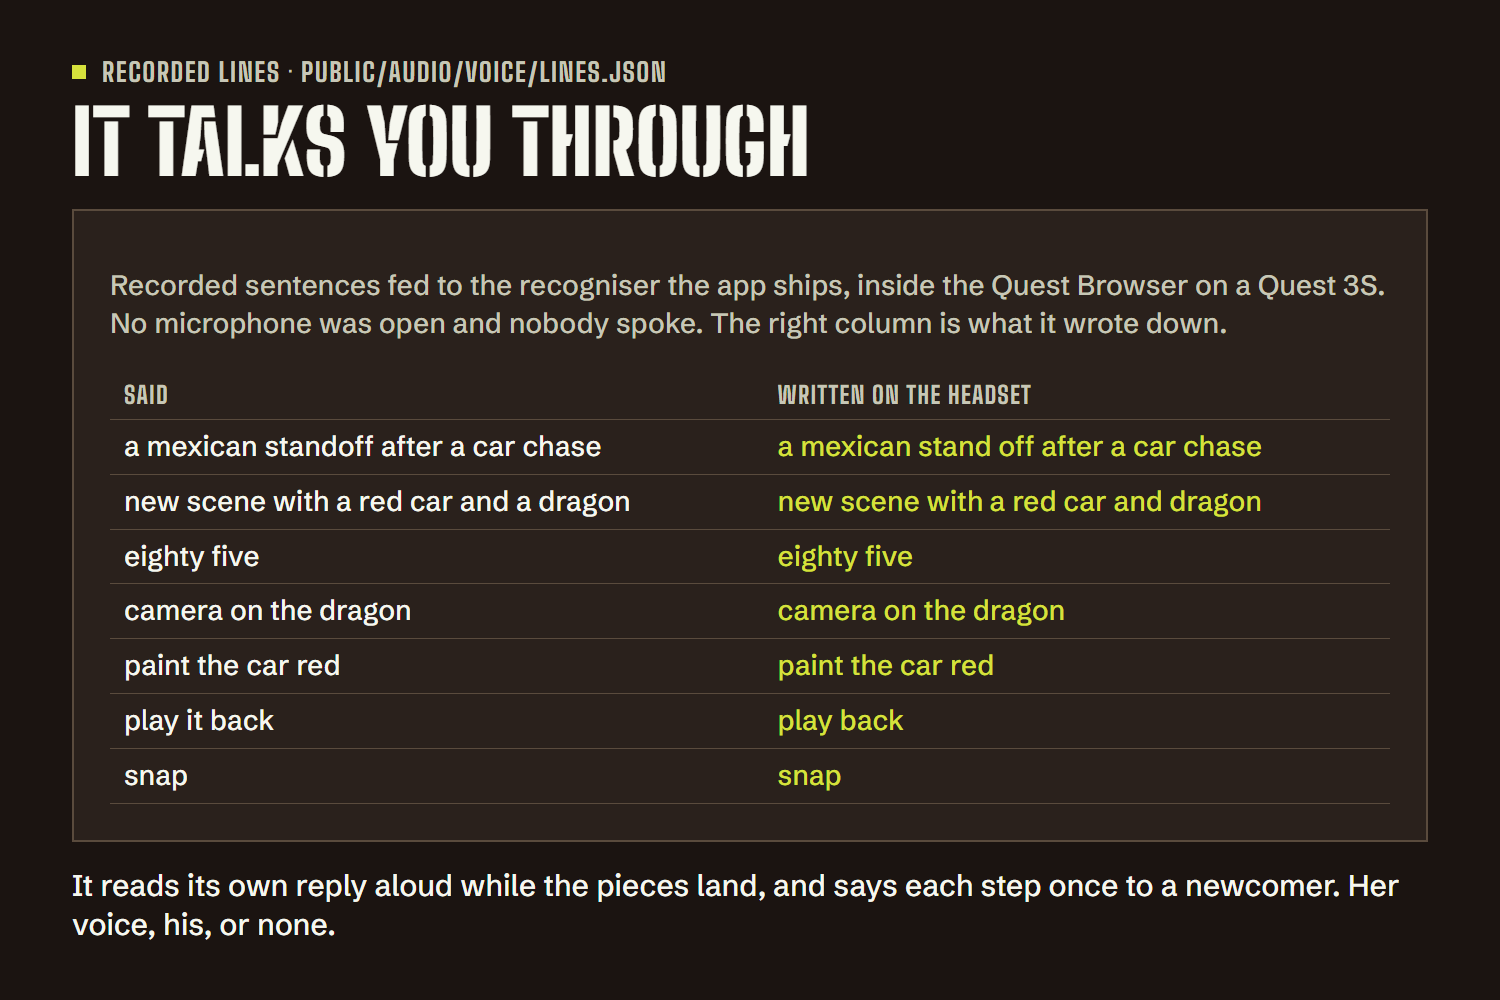
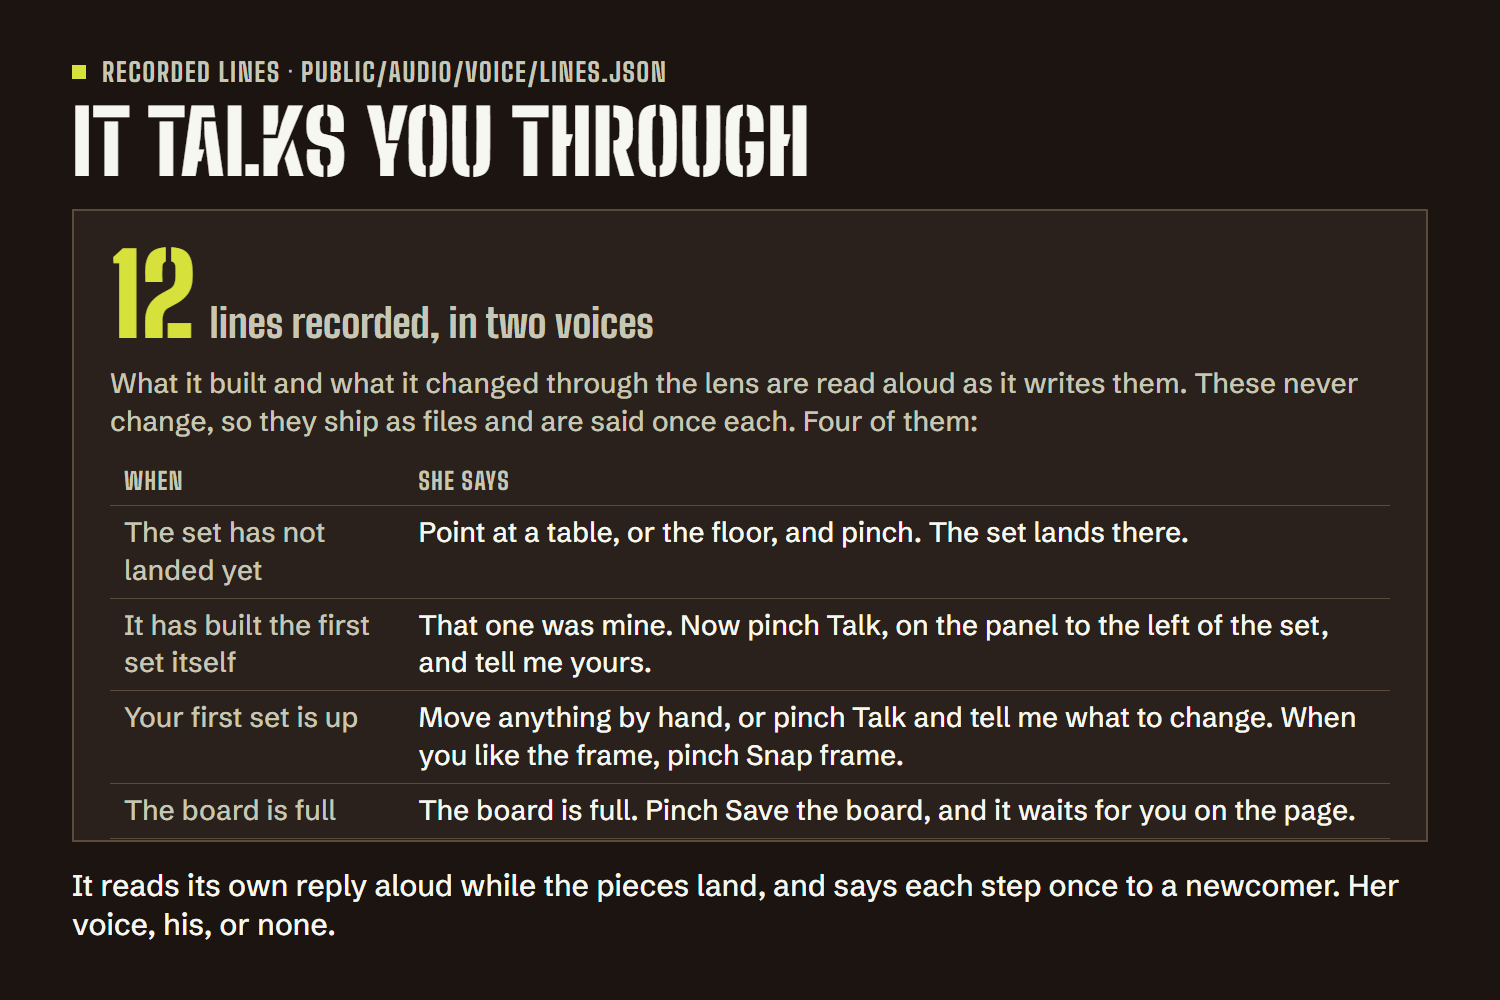
The gallery's spoken-lines slide shows the lines (it had the recogniser's table, which shares its name in the tool), four of them so none is cut off; the speed slide says both headset sentences; the coverage slide is from the build with close-ups kept close

Changed region(s): [[0.0613, 0.372, 0.92, 0.837], [0.0613, 0.248, 0.92, 0.341]]

diff --git a/tools/gallery.py b/tools/gallery.py
@@ -91,8 +91,8 @@ SLIDES = [
     dict(slug='dresser', badge='Replayed plan · devpost/results/designer-eval.json', headline='Nobody stands inside a car', picture=('live', 'dresser'),
          caption="The designer's own plan stood two actors inside a car parked side-on. Code stepped them out beside it before the camera was placed."),
     dict(slug='speed', badge='Result · devpost/results/designer-latency.json and quest-voice-designer.json', headline='{designer_first_s} s to the first piece', picture=('result', 'designer'),
-         caption='{designer_sentences} sets from a desktop: first piece a median {designer_first_s} s, whole set {designer_whole_s} s. Spoken on the headset: {quest_first_s} s and {quest_whole_s} s.'),
-    dict(slug='voice', badge='Recorded lines · public/audio/voice/lines.json', headline='It talks you through', picture=('result', 'voice'),
+         caption='{designer_sentences} sets from a desktop: first piece a median {designer_first_s} s, whole set {designer_whole_s} s. Spoken on the headset: first piece {quest_first_s} s.'),
+    dict(slug='voice', badge='Recorded lines · public/audio/voice/lines.json', headline='It talks you through', picture=('result', 'lines'),
          caption='It reads its own reply aloud while the pieces land, and says each step once to a newcomer. Her voice, his, or none.'),
     dict(slug='light', badge=LIVE_BADGE, headline='It lights the scene', picture=('live', 'light'),
          caption='The light comes from the sentence: a night chase is night, a duel at sunset golden hour. After dark the windows and the lamp are lit.'),
@@ -181,22 +181,18 @@ def result_body(kind: str) -> str:
         )
         return (f'<div class="result"><div class="big">{N["designer_first_s"]}<span class="unit">s to the first piece, median of {N["designer_sentences"]} sets</span></div>'
                 f'<p class="muted">From the request to the first piece of a fresh set, and to the whole set: the app\'s own server function, from a desktop on home broadband. '
-                f'On the headset, one sentence in my own words on {quest_designer["measured"]}: {N["quest_first_s"]} s from the end of the sentence to the first piece, {N["quest_whole_s"]} s to the whole set.</p>'
+                f'On the headset, {len(quest_designer["runs"])} sentences in my own words, the last on the live site: {N["quest_first_s"]} s from the end of the sentence to the first piece each time, {" and ".join(f"{run["wholeSetMs"] / 1000:.1f}" for run in quest_designer["runs"])} s to the whole set.</p>'
                 f'<table><tr><th>Said</th><th>First piece</th><th>Whole set</th></tr>{rows}</table></div>')
-    if kind == 'voice':
+    if kind == 'lines':
         when = {
             'land': 'The set has not landed yet',
             'mine': 'It has built the first set itself',
             'block': 'Your first set is up',
-            'frame': 'Your first frame is on the board',
-            'inside': 'You step inside',
-            'cover': 'You ask for coverage',
             'full': 'The board is full',
-            'back': 'You come back another day',
         }
         rows = ''.join(f"<tr><td class='muted'>{moment}</td><td>{spoken_lines[key]}</td></tr>" for key, moment in when.items() if key in spoken_lines)
         return (f'<div class="result rows5"><div class="big">{N["spoken_lines"]}<span class="unit">lines recorded, in two voices</span></div>'
-                f'<p class="muted">What it built and what it changed through the lens are read aloud as it writes them. These never change, so they ship as files and are said once each:</p>'
+                f'<p class="muted">What it built and what it changed through the lens are read aloud as it writes them. These never change, so they ship as files and are said once each. Four of them:</p>'
                 f'<table><tr><th>When</th><th>She says</th></tr>{rows}</table></div>')
     if kind == 'checks':
         lines = [l for l in checks.splitlines() if l.startswith('| ') and not l.startswith('| Check') and not l.startswith('|---')]

diff --git a/devpost/gallery/captions.md b/devpost/gallery/captions.md
@@ -53,7 +53,7 @@ Put your fingers on a piece and pinch, or close a fist around it. The pointing r
 ## 09 speed
 
 ```
-7 sets from a desktop: first piece a median 1.3 s, whole set 2.8 s. Spoken on the headset: 1.6 s and 3.3 s.
+7 sets from a desktop: first piece a median 1.3 s, whole set 2.8 s. Spoken on the headset: first piece 1.6 s.
 ```
 
 ## 10 fps
